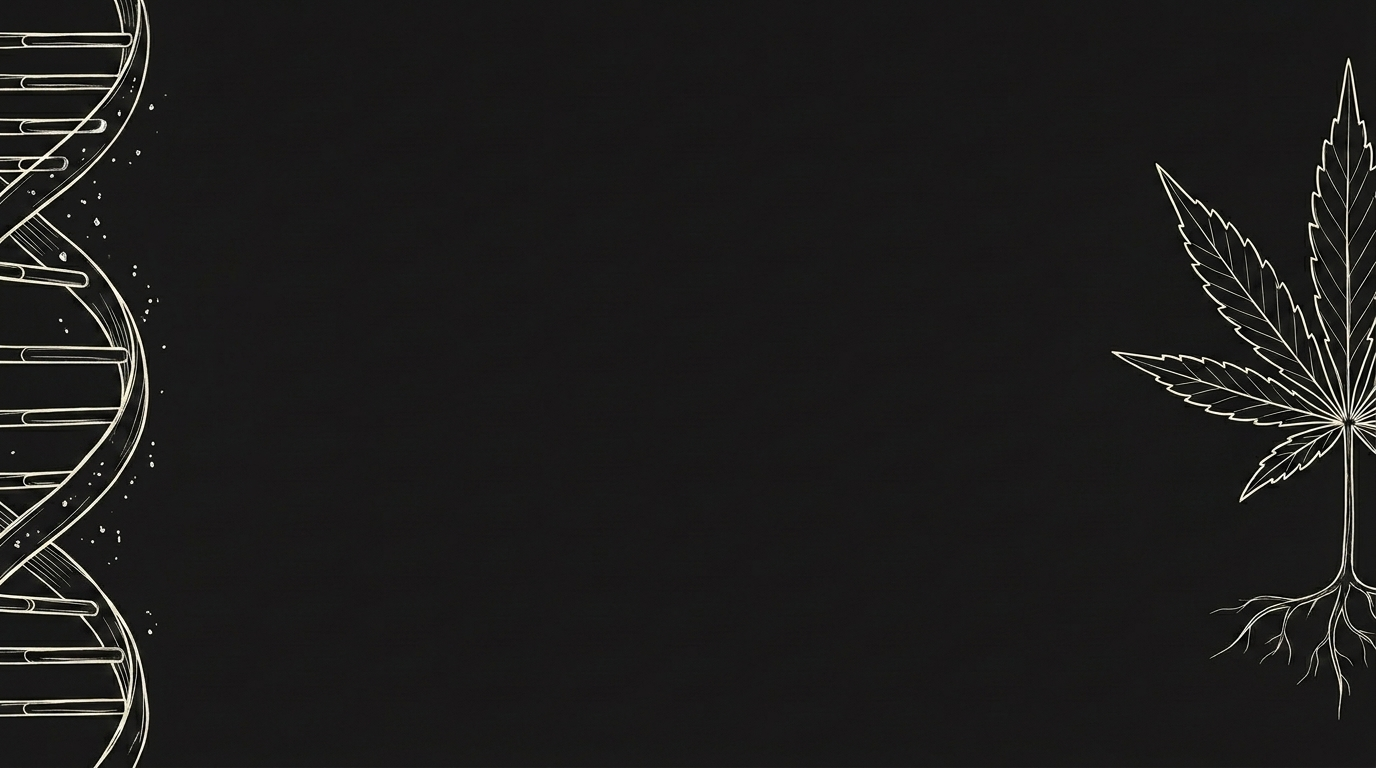
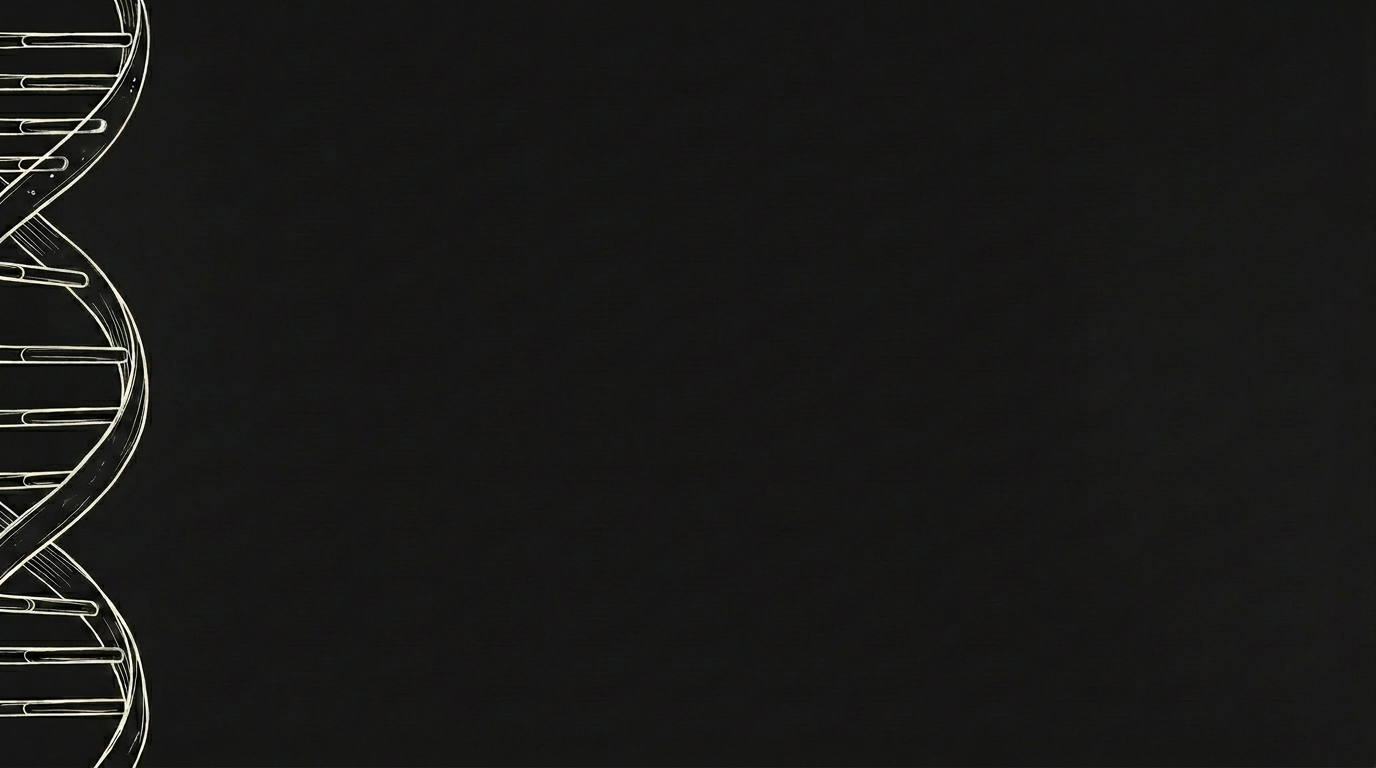
cambios

Changed region(s): [[0.8125, 0.0938, 1.0, 0.9062], [0.0312, 0.3125, 0.0625, 0.3438]]

diff --git a/app/manifiesto/page.tsx b/app/manifiesto/page.tsx
@@ -90,39 +90,78 @@ export default function ManifiestoPage() {
         <main className="min-h-screen bg-[var(--fondo-oscuro)] overflow-hidden">
 
             {/* ═══════════════════════════════════════════════════════════════
-                HERO — anima4.png full-bleed
-                85vh: lo suficiente para ser inmersivo, invita al scroll
+                HERO — ADN izquierda · Cannabis derecha
             ═══════════════════════════════════════════════════════════════ */}
-            <section className="relative min-h-[85vh] flex items-end">
-                {/* Imagen */}
-                <div className="absolute inset-0">
+            <section
+                className="relative min-h-screen flex items-center overflow-hidden"
+                style={{
+                    background: 'radial-gradient(ellipse at 50% 40%, #1a3a2a 0%, #0d1f15 60%, #060f09 100%)',
+                }}
+            >
+                {/* ADN — lateral izquierdo */}
+                <div
+                    className="absolute left-0 top-0 h-full hidden md:block w-[38%] pointer-events-none"
+                    style={{
+                        maskImage: 'linear-gradient(to right, black 20%, transparent 85%), linear-gradient(to bottom, transparent 0%, black 18%, black 82%, transparent 100%)',
+                        maskComposite: 'intersect',
+                        WebkitMaskImage: 'linear-gradient(to right, black 20%, transparent 85%), linear-gradient(to bottom, transparent 0%, black 18%, black 82%, transparent 100%)',
+                        WebkitMaskComposite: 'source-in',
+                    }}
+                >
                     <Image
                         src="/gananda1.jpeg"
-                        alt="GANANDA — Manifiesto"
+                        alt=""
                         fill
                         priority
-                        className="object-cover object-center"
-                        sizes="100vw"
-                    />
-
-                    {/* Degradé: oscuro arriba → verde profundo abajo */}
-                    <div
-                        className="absolute inset-0"
-                        style={{
-                            background: `linear-gradient(
-                                180deg,
-                                rgba(6,15,9,0.85) 0%,
-                                rgba(13,31,21,0.6) 30%,
-                                rgba(26,58,42,0.35) 55%,
-                                rgba(13,31,21,0.55) 75%,
-                                #060f09 100%
-                            )`,
-                        }}
+                        className="object-cover object-left"
+                        style={{ opacity: 0.28 }}
+                        sizes="38vw"
                     />
                 </div>
 
-                {/* Contenido del hero — anclado al bottom */}
-                <div ref={heroRef} className="relative z-10 w-full pb-16 md:pb-24 pt-40">
+                {/* Cannabis — lateral derecho */}
+                <div
+                    className="absolute right-0 top-0 h-full hidden md:block w-[38%] pointer-events-none"
+                    style={{
+                        maskImage: 'linear-gradient(to left, black 20%, transparent 85%), linear-gradient(to bottom, transparent 0%, black 18%, black 82%, transparent 100%)',
+                        maskComposite: 'intersect',
+                        WebkitMaskImage: 'linear-gradient(to left, black 20%, transparent 85%), linear-gradient(to bottom, transparent 0%, black 18%, black 82%, transparent 100%)',
+                        WebkitMaskComposite: 'source-in',
+                    }}
+                >
+                    <Image
+                        src="/gananda5.jpeg"
+                        alt=""
+                        fill
+                        priority
+                        className="object-cover object-right"
+                        style={{ opacity: 0.28 }}
+                        sizes="38vw"
+                    />
+                </div>
+
+                {/* Mobile — imagen de fondo */}
+                <div
+                    className="absolute inset-0 pointer-events-none"
+                    style={{
+                        backgroundImage: "url('/gananda5.jpeg')",
+                        backgroundSize: 'cover',
+                        backgroundPosition: 'center',
+                        opacity: 0.45,
+                    }}
+                />
+
+                {/* Orbe central sutil */}
+                <div
+                    className="absolute top-1/2 left-1/2 -translate-x-1/2 -translate-y-1/2 w-[400px] h-[400px] pointer-events-none"
+                    style={{
+                        background: 'radial-gradient(circle, rgba(201,168,76,0.04) 0%, transparent 65%)',
+                        filter: 'blur(40px)',
+                    }}
+                />
+
+                {/* Contenido del hero — centrado */}
+                <div ref={heroRef} className="relative z-10 w-full py-32 md:py-40">
                     <div className="max-w-3xl mx-auto px-6 sm:px-10 text-center">
                         {/* Eyebrow */}
                         <motion.div
@@ -179,7 +218,7 @@ export default function ManifiestoPage() {
                 Proximidad Gestalt: espaciado corto entre frases hermanas
             ═══════════════════════════════════════════════════════════════ */}
             <section
-                className="relative py-16 md:py-24"
+                className="relative pt-28 pb-20 md:pt-40 md:pb-32"
                 style={{
                     background: 'linear-gradient(180deg, #060f09 0%, #0d1f15 50%, #0f2419 100%)',
                 }}
@@ -195,6 +234,24 @@ export default function ManifiestoPage() {
                 />
 
                 <div className="relative z-10 max-w-2xl mx-auto px-6 sm:px-10 text-center">
+
+                    {/* Separador decorativo */}
+                    <FadeIn className="flex items-center justify-center gap-4 mb-16 md:mb-20">
+                        <div className="h-px flex-1 max-w-[60px]" style={{ background: 'linear-gradient(90deg, transparent, rgba(201,168,76,0.4))' }} />
+                        <svg width="28" height="28" viewBox="0 0 28 28" fill="none" style={{ opacity: 0.5 }}>
+                            <circle cx="14" cy="14" r="5" stroke="var(--dorado)" strokeWidth="0.8" />
+                            <line x1="14" y1="0" x2="14" y2="7" stroke="var(--dorado)" strokeWidth="0.6" />
+                            <line x1="14" y1="21" x2="14" y2="28" stroke="var(--dorado)" strokeWidth="0.6" />
+                            <line x1="0" y1="14" x2="7" y2="14" stroke="var(--dorado)" strokeWidth="0.6" />
+                            <line x1="21" y1="14" x2="28" y2="14" stroke="var(--dorado)" strokeWidth="0.6" />
+                            <line x1="3.5" y1="3.5" x2="8.5" y2="8.5" stroke="var(--dorado)" strokeWidth="0.5" />
+                            <line x1="19.5" y1="19.5" x2="24.5" y2="24.5" stroke="var(--dorado)" strokeWidth="0.5" />
+                            <line x1="24.5" y1="3.5" x2="19.5" y2="8.5" stroke="var(--dorado)" strokeWidth="0.5" />
+                            <line x1="8.5" y1="19.5" x2="3.5" y2="24.5" stroke="var(--dorado)" strokeWidth="0.5" />
+                        </svg>
+                        <div className="h-px flex-1 max-w-[60px]" style={{ background: 'linear-gradient(90deg, rgba(201,168,76,0.4), transparent)' }} />
+                    </FadeIn>
+
                     {/* Frases introductorias */}
                     <div className="space-y-5 md:space-y-7">
                         {fragmentos.map((frag, i) => (

diff --git a/app/investigacion/page.tsx b/app/investigacion/page.tsx
@@ -117,7 +117,7 @@ export default function InvestigacionPage() {
                 1. HERO
             ═══════════════════════════════════════════════════════════════ */}
             <section
-                className="relative flex items-center justify-center pattern-celular"
+                className="relative min-h-screen flex items-center justify-center pattern-celular"
                 style={{
                     background: 'radial-gradient(ellipse at 40% 50%, #1a3a2a 0%, #0d1f15 60%, #060f09 100%)',
                 }}
@@ -143,11 +143,11 @@ export default function InvestigacionPage() {
                     initial={{ opacity: 0 }}
                     animate={{ opacity: 1 }}
                     transition={{ duration: 1.5, delay: 0.4, ease: 'easeOut' }}
-                    className="absolute top-0 -left-10 sm:-left-12 md:-left-16 lg:-left-20 w-[320px] sm:w-[400px] md:w-[520px] lg:w-[650px] pointer-events-none"
+                    className="absolute top-[15%] md:top-[10%] left-0 sm:-left-8 md:-left-16 lg:-left-20 w-[85vw] sm:w-[420px] md:w-[520px] lg:w-[650px] pointer-events-none"
                     style={{
-                        maskImage: 'linear-gradient(to left, transparent 0%, black 40%), linear-gradient(to top, transparent 0%, black 35%)',
+                        maskImage: 'linear-gradient(to left, transparent 0%, black 50%), linear-gradient(to top, transparent 0%, black 60%)',
                         maskComposite: 'intersect',
-                        WebkitMaskImage: 'linear-gradient(to left, transparent 0%, black 40%), linear-gradient(to top, transparent 0%, black 35%)',
+                        WebkitMaskImage: 'linear-gradient(to left, transparent 0%, black 50%), linear-gradient(to top, transparent 0%, black 60%)',
                         WebkitMaskComposite: 'source-in',
                     }}
                 >
@@ -157,8 +157,8 @@ export default function InvestigacionPage() {
                         width={650}
                         height={366}
                         className="w-full h-auto block"
-                        style={{ opacity: 0.3 }}
-                        sizes="(max-width: 640px) 320px, (max-width: 768px) 400px, (max-width: 1024px) 520px, 650px"
+                        style={{ opacity: 0.45 }}
+                        sizes="(max-width: 640px) 85vw, (max-width: 768px) 420px, (max-width: 1024px) 520px, 650px"
                     />
                 </motion.div>
 
@@ -167,11 +167,11 @@ export default function InvestigacionPage() {
                     initial={{ opacity: 0 }}
                     animate={{ opacity: 1 }}
                     transition={{ duration: 1.5, delay: 0.6, ease: 'easeOut' }}
-                    className="absolute bottom-0 -right-10 sm:-right-12 md:-right-16 lg:-right-20 w-[320px] sm:w-[400px] md:w-[520px] lg:w-[650px] pointer-events-none"
+                    className="absolute bottom-0 right-0 sm:-right-8 md:-right-16 lg:-right-20 w-[85vw] sm:w-[420px] md:w-[520px] lg:w-[650px] pointer-events-none"
                     style={{
-                        maskImage: 'linear-gradient(to right, transparent 0%, black 40%), linear-gradient(to bottom, transparent 0%, black 35%)',
+                        maskImage: 'linear-gradient(to right, transparent 0%, black 50%), linear-gradient(to bottom, transparent 0%, black 40%)',
                         maskComposite: 'intersect',
-                        WebkitMaskImage: 'linear-gradient(to right, transparent 0%, black 40%), linear-gradient(to bottom, transparent 0%, black 35%)',
+                        WebkitMaskImage: 'linear-gradient(to right, transparent 0%, black 50%), linear-gradient(to bottom, transparent 0%, black 40%)',
                         WebkitMaskComposite: 'source-in',
                     }}
                 >
@@ -181,8 +181,8 @@ export default function InvestigacionPage() {
                         width={650}
                         height={366}
                         className="w-full h-auto block"
-                        style={{ opacity: 0.3 }}
-                        sizes="(max-width: 640px) 320px, (max-width: 768px) 400px, (max-width: 1024px) 520px, 650px"
+                        style={{ opacity: 0.45 }}
+                        sizes="(max-width: 640px) 85vw, (max-width: 768px) 420px, (max-width: 1024px) 520px, 650px"
                     />
                 </motion.div>
 

diff --git a/components/sections/HeroSection.tsx b/components/sections/HeroSection.tsx
@@ -70,12 +70,12 @@ export default function HeroSection() {
             {/* Layout: flex-col en mobile (imagen arriba, texto abajo), flex-row en desktop */}
             <div className="relative z-10 flex flex-col md:flex-row items-center md:items-end flex-1 w-full pt-4 md:pt-0 h-full">
 
-                {/* Imagen — align a la izquierda en mobile para mantener el estilo, abajo a la izquierda en desktop */}
+                {/* Imagen — abajo en mobile, izquierda en desktop */}
                 <motion.div
                     initial={{ opacity: 0, x: -40 }}
                     animate={{ opacity: 1, x: 0 }}
                     transition={{ duration: 1, delay: 0.35, ease: 'easeOut' }}
-                    className="flex-shrink-0 self-start md:self-end mt-2 md:mt-0"
+                    className="flex-shrink-0 self-start md:self-end mt-2 md:mt-0 order-2 md:order-1"
                     style={{
                         width: 'clamp(260px, 70vw, 580px)',
                         marginLeft: 0,
@@ -103,8 +103,8 @@ export default function HeroSection() {
                     />
                 </motion.div>
 
-                {/* Texto — centrado en mobile, a la derecha en desktop */}
-                <div className="flex-1 flex flex-col items-center justify-center md:items-start text-center md:text-left pb-20 md:pb-28 px-4 sm:px-6 md:px-10 z-20">
+                {/* Texto — arriba en mobile, derecha en desktop */}
+                <div className="flex-1 flex flex-col items-center justify-center md:items-start text-center md:text-left pt-8 pb-4 md:pt-0 md:pb-28 px-4 sm:px-6 md:px-10 z-20 order-1 md:order-2">
                     <motion.h1
                         variants={fadeUp}
                         initial="hidden"
@@ -124,7 +124,7 @@ export default function HeroSection() {
                         initial="hidden"
                         animate="visible"
                         custom={0.9}
-                        className="mt-5 max-w-sm text-xs md:text-sm text-[var(--texto-gris)] leading-relaxed italic font-editorial"
+                        className="mt-5 max-w-sm text-sm md:text-base text-[var(--texto-gris)] leading-relaxed italic font-editorial"
                         style={{ opacity: 0.7 }}
                     >
                         La única empresa en el mundo que puede prometer un resultado en salud sobre la sanidad del cannabis.

diff --git a/components/sections/AutoridadCientifica.tsx b/components/sections/AutoridadCientifica.tsx
@@ -2,34 +2,35 @@
 
 import { useRef } from 'react'
 import { motion, useInView } from 'framer-motion'
+import { TrendingUp, Clock, ClipboardList, ShieldCheck } from 'lucide-react'
 
 const metricas = [
     {
         valor: '4x – 8x',
         label: 'Multiplicación de productividad',
         descripcion: 'Escalamos la producción de plantas cada tres semanas mediante micropropagación del meristema.',
-        icono: '⬡',
+        Icono: TrendingUp,
         grande: false,
     },
     {
         valor: '8x',
         label: 'Reducción de tiempo',
         descripcion: 'En Doble Haploide: de 8 años a 1 año en desarrollo de variedades estables.',
-        icono: '◎',
+        Icono: Clock,
         grande: false,
     },
     {
         valor: '+40',
         label: 'Protocolos establecidos',
         descripcion: 'Protocolos exclusivos de cultivo validados y documentados en múltiples especies.',
-        icono: '◈',
+        Icono: ClipboardList,
         grande: false,
     },
     {
         valor: '100%',
         label: 'Saneamiento de origen',
         descripcion: 'Eliminación de virus desde el inicio. Plantas sanas, libres de patógenos, con vigor superior.',
-        icono: '◉',
+        Icono: ShieldCheck,
         grande: false,
     },
 ]
@@ -60,8 +61,8 @@ function MetricaCard({
             className="metrica-card"
         >
             {/* Icono decorativo */}
-            <div className="text-[var(--dorado)] text-2xl mb-4" style={{ opacity: 0.4 }}>
-                {metrica.icono}
+            <div className="mb-4" style={{ color: 'var(--dorado)', opacity: 0.6 }}>
+                <metrica.Icono size={28} strokeWidth={1.5} />
             </div>
 
             {/* Valor */}

diff --git a/components/layout/Navbar.tsx b/components/layout/Navbar.tsx
@@ -61,7 +61,7 @@ export default function Navbar() {
                             href="/"
                             className="font-editorial text-xl md:text-2xl tracking-[0.2em] text-[var(--texto-claro)] hover:text-[var(--dorado-claro)] transition-colors duration-300"
                         >
-                            GANANDA
+                            GANANDA<span className="text-sm md:text-base align-top mt-1">pro</span>
                         </Link>
 
                         {/* Desktop Links */}
@@ -132,7 +132,7 @@ export default function Navbar() {
                         </button>
 
                         <div className="font-editorial text-3xl tracking-[0.3em] text-[var(--dorado-claro)] mb-12">
-                            GANANDA
+                            GANANDA<span className="text-xl align-top mt-1">pro</span>
                         </div>
 
                         <nav className="flex flex-col items-center gap-8">

diff --git a/app/lafamiliadetras/page.tsx b/app/lafamiliadetras/page.tsx
@@ -175,7 +175,7 @@ export default function EquipoPage() {
                 HERO
             ═══════════════════════════════════════════════════════════════ */}
             <section
-                className="relative flex items-center justify-center pattern-celular"
+                className="relative flex items-center justify-center pattern-celular min-h-screen"
                 style={{
                     background: 'radial-gradient(ellipse at 40% 50%, #1a3a2a 0%, #0d1f15 60%, #060f09 100%)',
                 }}
